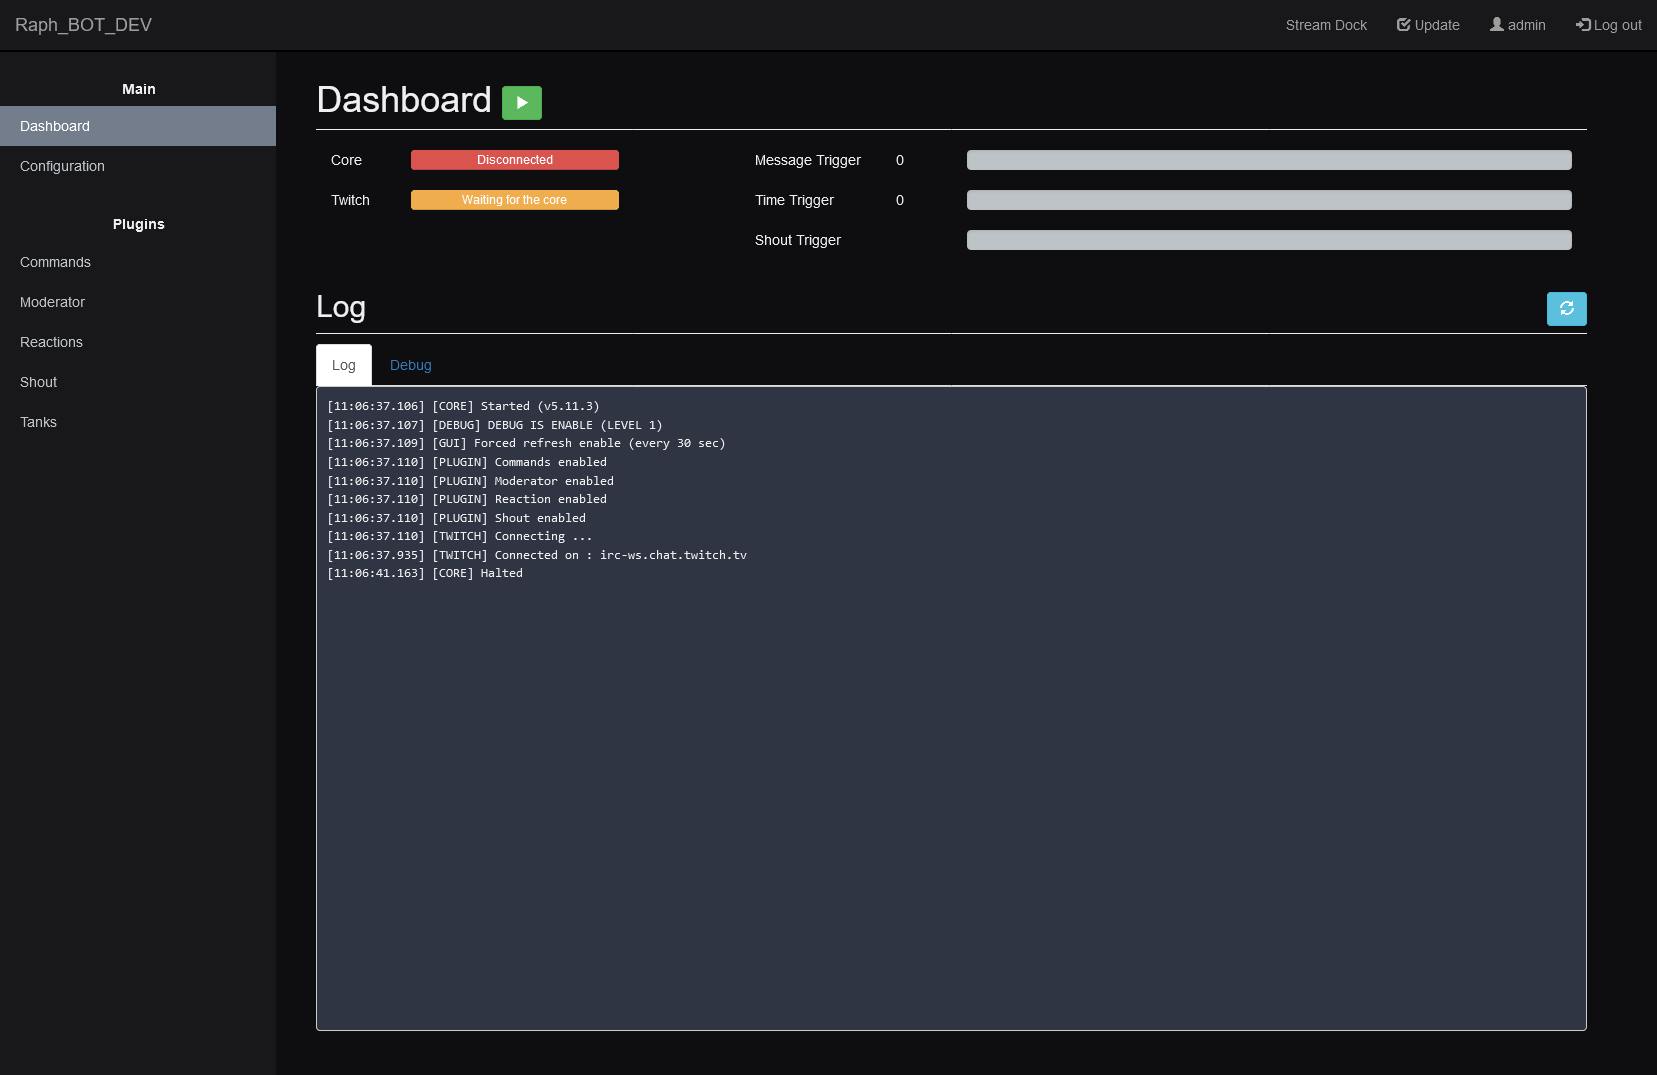
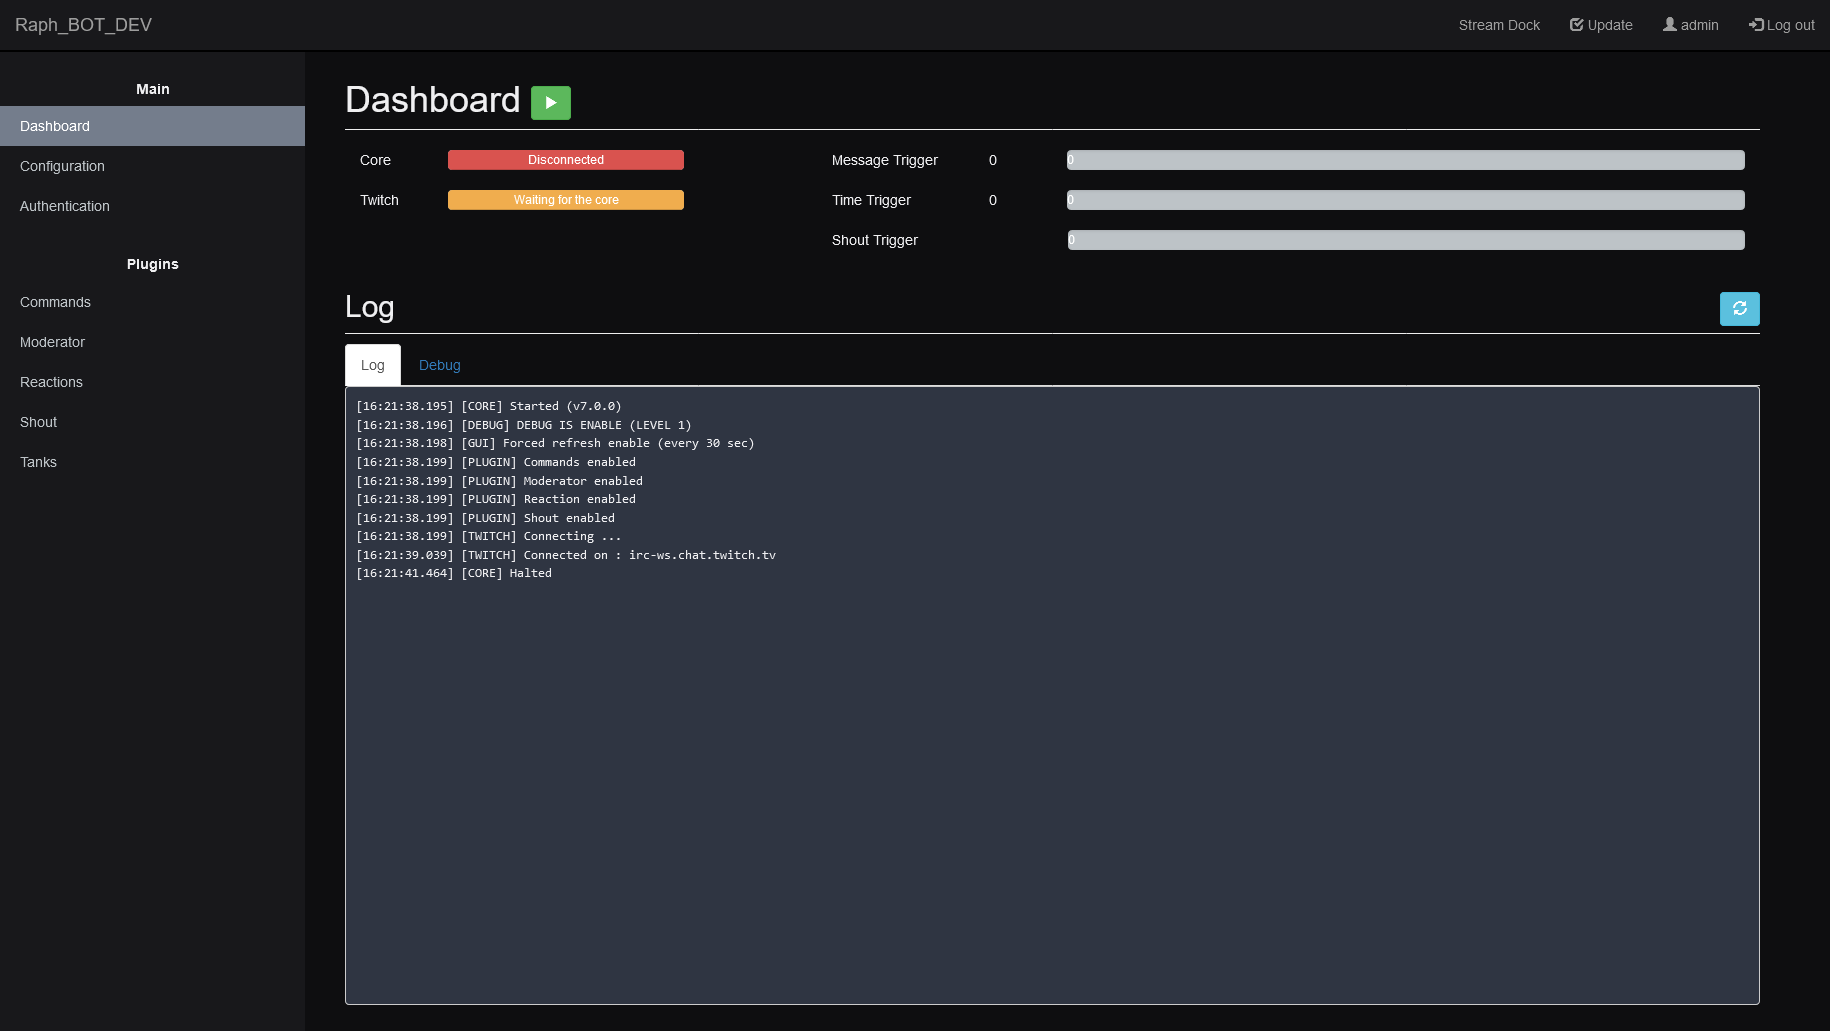
Update (7.0.0)

diff --git a/readme.MD b/readme.MD
@@ -21,17 +21,30 @@ NodeJS module:
 
 # First time setup (Debian based distro)
 
-In the folder "template" :
-- Move "config_core.json" from the template folder to the root folder and rename it "config.json" (mv ./template/config_UI.json ./core/config.json)
-- Setup the core config (API_URL, token, ...) in the file "config.json"
-- Move "config_UI.json" from the template folder to the root folder and rename it "config.json" (mv ./template/config_UI.json ./config.json)
-- Setup your database config (user, password, database) and port in the file "config.json"
+## Backend
+- Configure your web server so it uses the 'www' folder as document root. The virtual host must be HTTPS.
 - Use raphbot_struct.sql and raphbot_data.sql to configure your database with the required tables
-- Configure your web server so it uses the 'www' folder as document root
 - Make sure the folder 'core' can be written by the web server (needed for log files)
 
+## Create auth token
+- Log into RaphBOT WebUI (default user is 'admin' with password '0'), ignore all errors related to "API ERROR". You don't have any pair of client/token yet.
+- Go to "Authentication", create two key. One is for the core, the other for the WebUI
+
+## Core config
+- Move "config_core.json" from the template folder to the root folder and rename it "config.json" (mv ./template/config_UI.json ./core/config.json)
+- Open "config.json"
+- Set "client" and "token" with the information you got earlier
+- Set "API_URL" with the complete URL to access the RaphBOT API
+- Set "socket_port" (default is 3000)
+
+## WebUI
+- Move "config_UI.json" from the template folder to the root folder and rename it "config.json" (mv ./template/config_UI.json ./config.json)
+- Open "config.json"
+- Setup your database config (host, user, password, database)
+- Set "socket_port" (default is 3000). It need to match the port you set earlier
+
 # Configure bot
-- Log into the dashboard, default user is 'admin' with password '0'
+- Log into the dashboard
 - Got to the "Configuration" tab and setup your twitch key, etc.
 
 # Documentation
